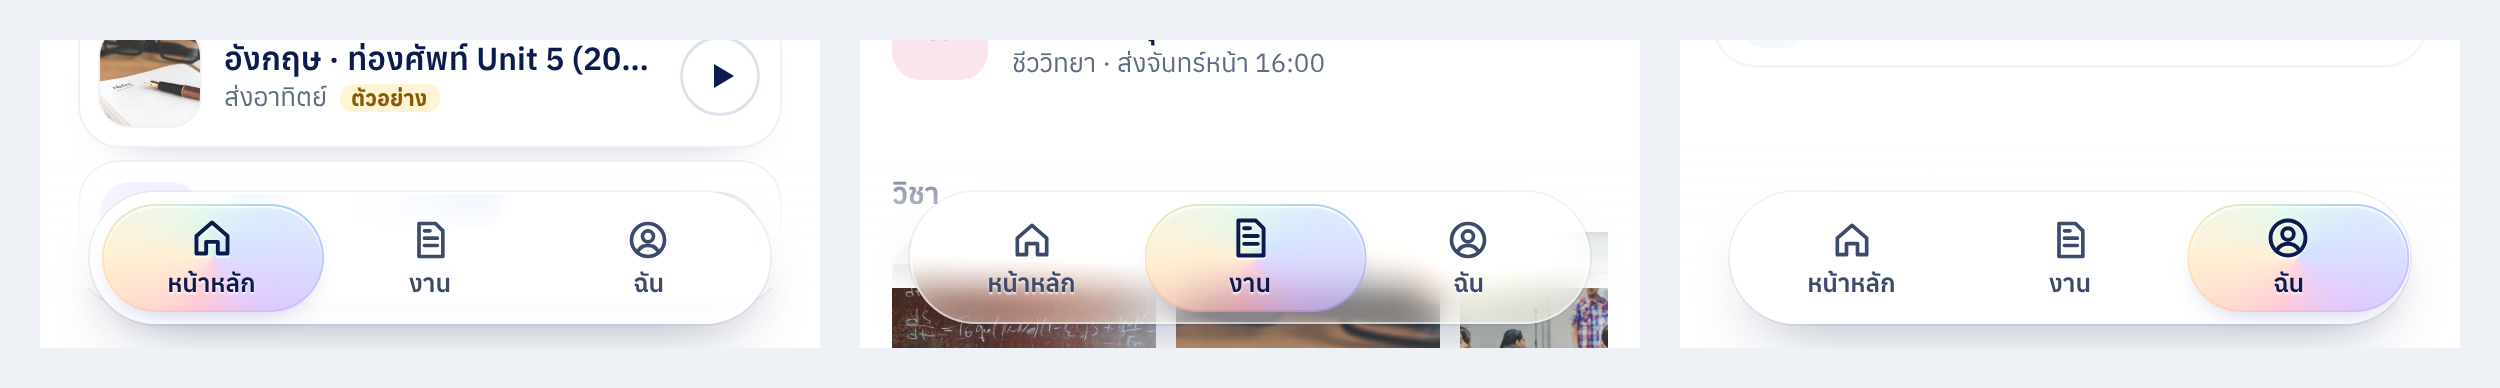
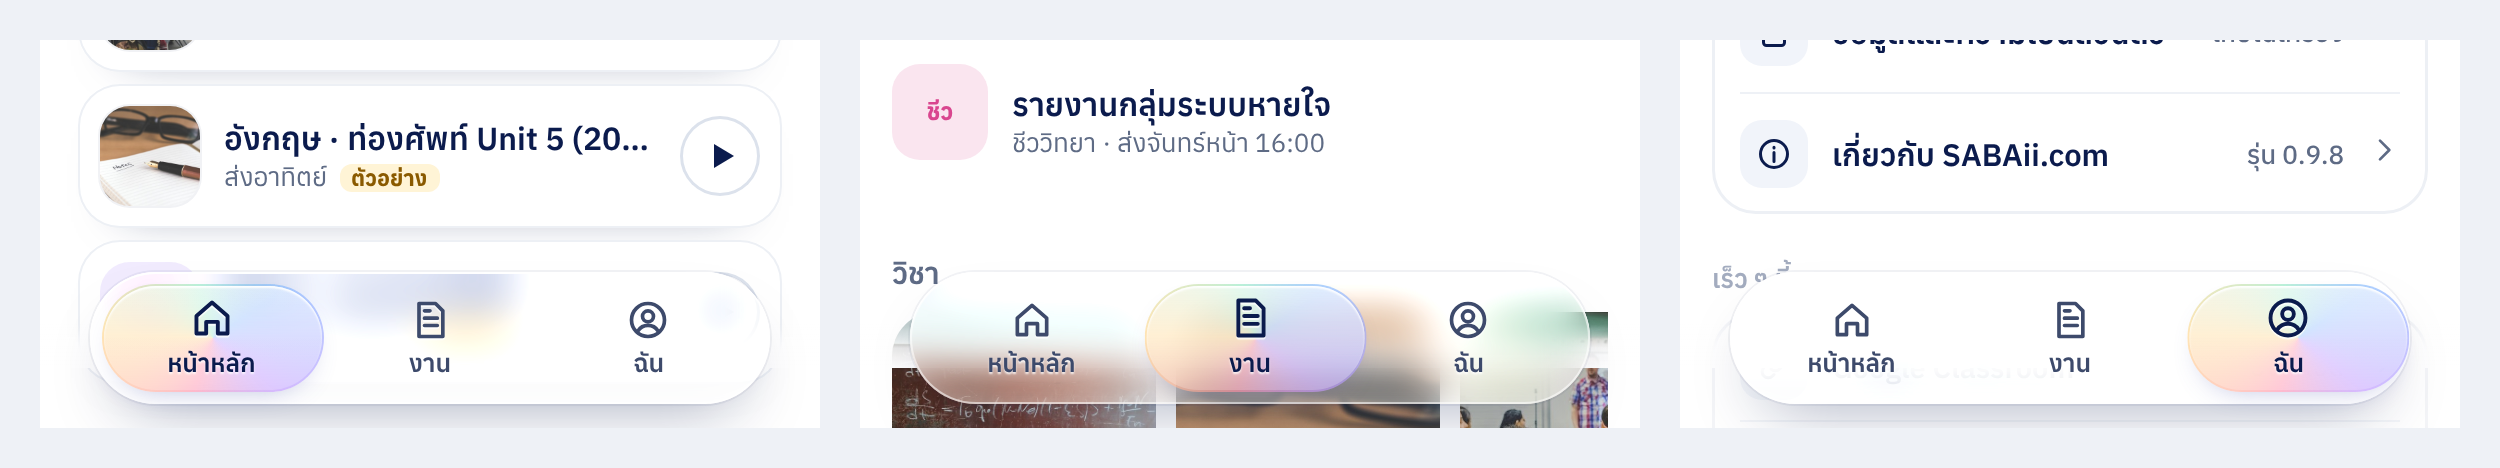
0.9.8: ทุกหน้าเห็นเนื้อหาผ่านกระจกเมนู (ม่านขาวเหลือแค่ใต้แถบเมนู)
Claude-Session: https://claude.ai/code/session_01EH8Q8bXkn1qbEiPgsVfsTt

diff --git a/src/styles/app.css b/src/styles/app.css
@@ -1088,3 +1088,5 @@ body.note-mode .pane-home *, body:has(#page:not([hidden])) .pane-home * { animat
   box-shadow: inset 0 1px 1px rgba(255,255,255,.95), 0 6px 14px -8px rgba(90,100,180,.45); }
 /* ม่านขาวล่างจอ: บางลง ให้เห็นเนื้อหาผ่านกระจก แต่ยังไม่โผล่ใต้แถบโฮมของ iPhone */
 #page::after, #sheet.full .pane-home::after { background: linear-gradient(180deg, rgba(255,255,255,0) 0%, rgba(255,255,255,0) 50%, rgba(255,255,255,.85) 80%, #fff); }
+/* เห็นเนื้อหาผ่านกระจกทุกหน้า (แบบหน้างานที่เจ้าของชอบ): ม่านขาวเหลือแค่ใต้แถบเมนู ตรงแถบโฮมของ iPhone */
+#page::after, #sheet.full .pane-home::after { background: linear-gradient(180deg, rgba(255,255,255,0) 0%, rgba(255,255,255,0) calc(100% - 22px - var(--safe-b)), rgba(255,255,255,.9) calc(100% - 10px - var(--safe-b)), #fff); }

diff --git a/README.md b/README.md
@@ -3,7 +3,7 @@
 แอปจัดการงานสำหรับนักเรียน · **แอปใหม่ทั้งหมด ไม่ใช้โค้ด ข้อมูล หรือชื่อของแอปเดิมในราก repo** (เจ้าของสั่ง 16 พ.ย. 69 — ห้ามโยงกัน)
 **เว็บจริง: https://sabaii.vercel.app/** (หน้าแนะนำ) → `/app/` (แอป) — Vercel สร้างเว็บใหม่เองทุกครั้งที่ merge เข้า `main` (`vercel.json` → `scripts/build-site.sh` → `dist/`) · ลิงก์ทดลองบน claude.ai (อัปเป็น 0.5.0 แล้ว 19 พ.ย. 69): https://claude.ai/artifact/47pz99QLbKfpoZAbvJtaoK (ส่วนตัว — เปิดได้เฉพาะเจ้าของจนกว่าจะแชร์) · หน้าของลิงก์คือ `artifact.html`
 
-**0.9.8 (20 พ.ย. 69):** เมนูล่างเป็นกระจกใสทั้งแถบ (มองทะลุเห็นเนื้อหาด้านหลัง · ขอบสะท้อนแสงขาว) · เม็ดในแถบใสขึ้น ขอบรุ้งบางลง · ม่านขาวล่างจอบางลงให้เห็นเนื้อหาผ่านกระจก แต่ยังไม่โผล่ใต้แถบโฮมของ iPhone
+**0.9.8 (20 พ.ย. 69):** เมนูล่างเป็นกระจกใสทั้งแถบ (มองทะลุเห็นเนื้อหาด้านหลัง · ขอบสะท้อนแสงขาว) · เม็ดในแถบใสขึ้น ขอบรุ้งบางลง · ม่านขาวเหลือแค่ใต้แถบเมนู (ตรงแถบโฮมของ iPhone) — ทุกหน้าเห็นเนื้อหาผ่านกระจกแบบหน้างานที่เจ้าของชอบ
 
 **0.9.7 (20 พ.ย. 69):** กระจกใส รุ้งจาง ๆ (เจ้าของเลือกแบบ 1 จาก `mockups/sabaii-glass-options.jpg`) — ชื่อผู้ใช้ในหน้าแรกไล่สีม่วงอมฟ้า → ชมพู → ส้มอ่อน · เม็ดเมนูล่างเป็นกระจกใสขาว แสงสะท้อนด้านบน ขอบเส้นรุ้งบาง ๆ ตัวหนังสือกรมท่า
 
